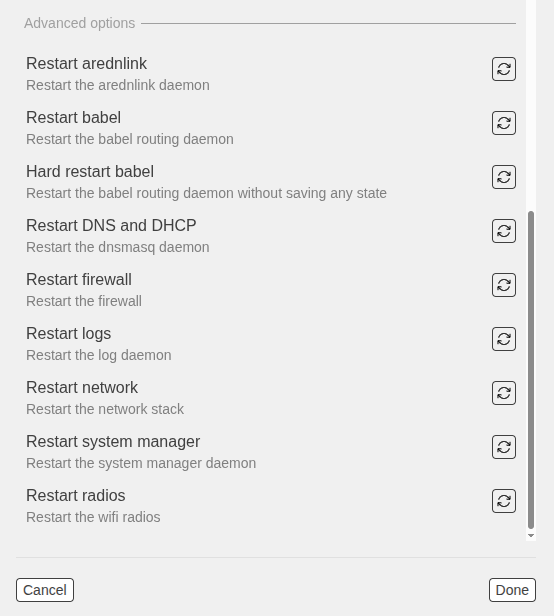
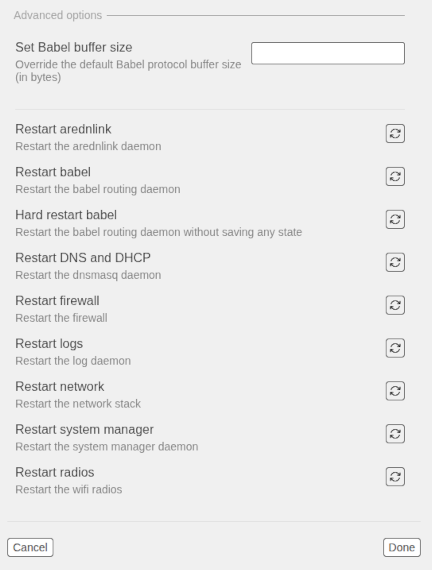
add Babel buffer size (#541)

diff --git a/arednGettingStarted/node_admin.rst b/arednGettingStarted/node_admin.rst
@@ -451,9 +451,15 @@ Alert messages are displayed in a highlighted text box at the top of the node st
 Advanced Internal Service Options
 +++++++++++++++++++++++++++++++++
 
-Additional options will be displayed when you click **Advanced Options**. These options allow specific firmware processes to be restarted without having to perform a full reboot of your node.
+Additional options will be displayed when you click **Advanced Options**.
 
-|icon8| Click the icon at the right side of any service to restart that service. The icon will spin briefly to indicate that the process has been restarted. Note that restarting some of the internal services may disconnect your node from the network, and it may require some time for the connections to be reestablished.
+Set Babel buffer size
+  This field allows you to override the default Babel protocol buffer size. A larger or smaller buffer size may help to avoid lost packets on nodes or supernodes with many connections. The buffer size is measured in bytes.
+
+Restart firmware processes
+  Specific firmware processes can also be restarted without having to perform a full reboot of your node.
+
+  |icon8| Click the icon at the right side of any service to restart that service. The icon will spin briefly to indicate that the process has been restarted. Note that restarting some of the internal services may disconnect your node from the network, and it may require some time for the connections to be reestablished.
 
 .. image:: _images/admin-internal-svc-4.png
  :alt: Admin Internal Services Advanced
